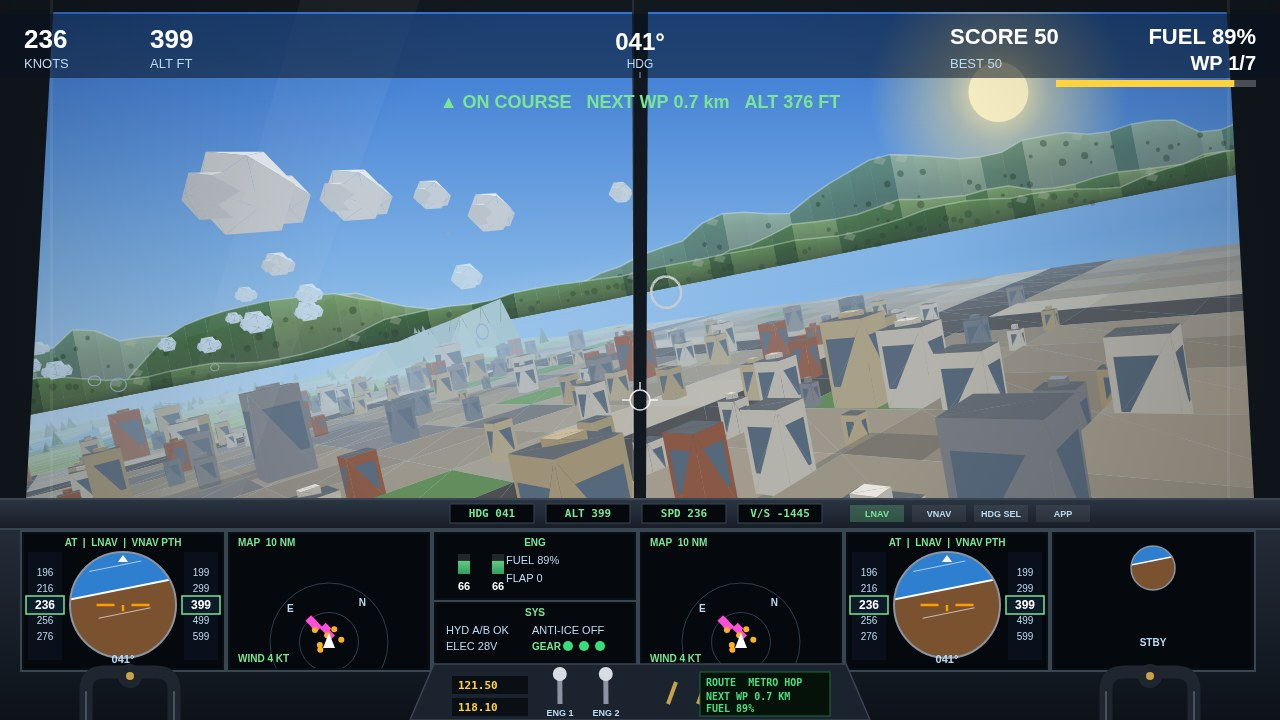
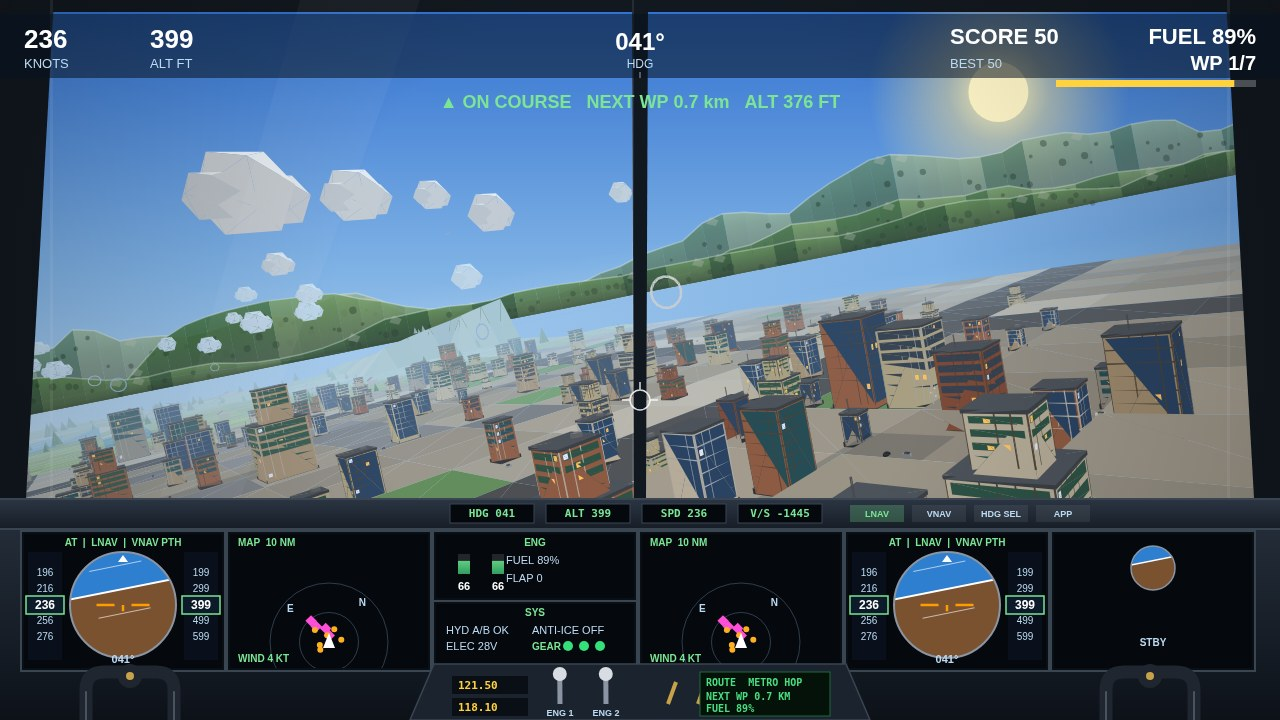
Jet Point v11: real building facades + HD map (user 21:06 WIB) — window-grid facades (glass curtain wall / concrete ribbon windows), stepped towers, plinth + parapet + AC, parked cars; mountain forest second octave, field sub-block tones; jet + cockpit untouched; all 5 legs LAND 7/7, dossier 160,637

Changed region(s): [[0.0312, 0.3972, 0.9375, 0.7028], [0.8125, 0.4278, 0.8438, 0.4583], [0.7812, 0.3972, 0.8125, 0.4278]]

diff --git a/game/src/gl3d.js b/game/src/gl3d.js
@@ -653,7 +653,10 @@ export function terrainFaceColor(world, wx, wz, h) {
       c = shadeArr(patch > 0.1 ? [104, 98, 88] : [62, 100, 62], light * (1 + mot * 0.08 + fine * 0.04));
     } else {
       const forest = patch > 0 ? [84, 132, 80] : [96, 146, 86];
-      c = shadeArr(forest, light * (1 + mot * 0.12 + fine * 0.05));
+      // Second, finer octave: the forest reads as patchy canopy, not one
+      // flat green — the "HD" texture the v11 brief asks for.
+      const fine2 = vnoise2(wx * 0.03 + 3, wz * 0.03 - 8);
+      c = shadeArr(forest, light * (1 + mot * 0.12 + fine * 0.05 + fine2 * 0.06));
       if (patch2 > 0.55) c = shadeArr(c, 0.88);
     }
     // The valley river follows the route.
@@ -674,7 +677,10 @@ export function terrainFaceColor(world, wx, wz, h) {
   const field = fh < 0.15 ? [188, 172, 116] : fh < 0.55 ? [140, 165, 96] : fh < 0.8 ? [124, 152, 88] : [112, 142, 82];
   const patch = vnoise2(wx * 0.006 + 31, wz * 0.006 + 11);
   const edge = clamp(0.5 + patch * 0.9, 0, 1);
-  return shadeArr(mix3(field, [128, 156, 92], edge * 0.6), 1 + mot * 0.1 + fine * 0.05);
+  // 100 m sub-block tone: fields read as separate parcels, not one flat
+  // 300 m slab.
+  const sub = 0.94 + hash2(Math.floor(wx / 100) + 5, Math.floor(wz / 100) + 9) * 0.12;
+  return shadeArr(mix3(field, [128, 156, 92], edge * 0.6), sub * (1 + mot * 0.1 + fine * 0.05));
 }
 
 // The terrain as a real 3D heightmap mesh: a grid over the whole leg,
@@ -862,6 +868,127 @@ export function buildRunway(world) {
 // Scenery props as real 3D low-poly meshes (GTA-low): buildings are boxes,
 // trees are cones/octahedra on trunks, palms have fronds, huts have prism
 // roofs. Positioned on the terrain, scaled by prop.s.
+// ---- facades ------------------------------------------------------------
+// A building that reads as a real building at 300-600 m, not a box with a
+// stripe: a window grid — glass towers get a curtain-wall field with
+// frame mullions + floor slabs, concrete/brick towers get per-floor glass
+// bands + mullions on a warm wall — plus a dark plinth, a parapet rim,
+// rooftop AC/antenna and parked cars on the street beside it. One helper
+// draws one face from its bottom-left corner o and horizontal unit u
+// (u×v is the outward normal, v = +y), so windings come out right.
+function facade(mesh, o, u, W, H, cols, rows, mode, glass, frame, seed) {
+  const q = (x0, y0, x1, y1, c, off = 0.15, em = 0) => {
+    const nx = -u[1] * off;
+    const nz = u[0] * off;
+    const a = [o[0] + u[0] * x0 + nx, o[1] + y0, o[2] + u[1] * x0 + nz];
+    const b = [o[0] + u[0] * x1 + nx, o[1] + y0, o[2] + u[1] * x1 + nz];
+    const c2 = [o[0] + u[0] * x1 + nx, o[1] + y1, o[2] + u[1] * x1 + nz];
+    const d = [o[0] + u[0] * x0 + nx, o[1] + y1, o[2] + u[1] * x0 + nz];
+    quad(mesh, a[0], a[1], a[2], b[0], b[1], b[2], c2[0], c2[1], c2[2], d[0], d[1], d[2], c, 1, em);
+  };
+  if (mode === 0) q(0.8, 1.0, W - 0.8, H - 0.8, glass); // curtain-wall glass field
+  const cw = W / cols;
+  const rh = H / rows;
+  for (let i = 0; i <= cols; i += 1) q(i * cw - 0.25, 0, i * cw + 0.25, H, frame); // mullions
+  if (mode === 0) {
+    for (let j = 0; j <= rows; j += 1) q(0, j * rh - 0.35, W, j * rh + 0.35, frame); // floor slabs
+  } else {
+    for (let j = 0; j < rows; j += 1) q(1.4, j * rh + 1.0, W - 1.4, (j + 1) * rh - 1.0, glass); // ribbon windows
+  }
+  // A few lit windows (warm), hash-placed in random cells, proud of the grid.
+  for (let k = 0; k < 3; k += 1) {
+    const hx = hash2(seed + k * 17, seed + k * 31);
+    const hy = hash2(seed + k * 43, seed + k * 7);
+    const ci = Math.floor(hx * cols);
+    const ri = Math.floor(hy * rows);
+    q(ci * cw + cw * 0.28, ri * rh + rh * 0.28, ci * cw + cw * 0.72, ri * rh + rh * 0.72,
+      hx > 0.82 ? [220, 232, 255] : [255, 196, 96], 0.3, 1);
+  }
+}
+
+// One tower: box + a window grid on all four faces + parapet rim +
+// hash-gated rooftop AC / antenna. gy = ground height at the tower.
+function tower(mesh, x, z, gy, w, h, mode, glass, frame, wall, roof, seed) {
+  const hw = w / 2;
+  boxAt(mesh, x, gy + h / 2, z, w, h, w, [roof, wall, wall, wall, wall, wall]);
+  const cols = Math.max(4, Math.min(6, Math.round(w / 5.5)));
+  const rows = Math.max(4, Math.min(7, Math.round(h / 6.5)));
+  const y0 = gy + 3; // the facade starts above the dark plinth
+  facade(mesh, [x + hw, y0, z + hw], [0, -1], w, h - 3, cols, rows, mode, glass, frame, seed);
+  facade(mesh, [x - hw, y0, z - hw], [0, 1], w, h - 3, cols, rows, mode, glass, frame, seed + 101);
+  facade(mesh, [x - hw, y0, z + hw], [1, 0], w, h - 3, cols, rows, mode, glass, frame, seed + 202);
+  facade(mesh, [x + hw, y0, z - hw], [-1, 0], w, h - 3, cols, rows, mode, glass, frame, seed + 303);
+  // Parapet rim (slightly wider than the tower) + rooftop AC / antenna.
+  boxAt(mesh, x, gy + h + 0.7, z, w + 1.2, 1.4, w + 1.2, [roof, roof, roof, roof, roof, roof]);
+  if (hash2(seed + 7, seed + 9) > 0.55) {
+    boxAt(mesh, x + hw * 0.4, gy + h + 2.4, z - hw * 0.3, 4, 2, 3, [120, 124, 128]);
+  }
+  if (hash2(seed + 13, seed + 17) > 0.75) {
+    boxAt(mesh, x - hw * 0.35, gy + h + 5, z + hw * 0.3, 0.5, 8, 0.5, [90, 94, 100]);
+  }
+}
+
+// A full building: plinth + tower(s) + parked cars on the street beside
+// it. mode 0 = glass curtain wall, 1 = warm concrete/brick with ribbon
+// windows, 2 = stepped tower (wide base + narrower top). H = terrain
+// height at (x, z); rwA/rwB = the runways (cars never park on a strip).
+function buildBuilding(mesh, prop, gy, H, rwA, rwB) {
+  const s = prop.s;
+  const seed = Math.floor(prop.x) * 7 + Math.floor(prop.z) * 13;
+  const h1 = hash2(seed, seed + 3);
+  const h2 = hash2(seed + 11, seed + 23);
+  const h3 = hash2(seed + 29, seed + 41);
+  const w = (prop.kind === 'building' ? 22 : 30) * s;
+  const h = (prop.kind === 'building' ? 38 : 58) * s;
+  const glassTints = [[52, 84, 124], [48, 96, 108], [66, 82, 102], [56, 102, 88]];
+  const frameTints = [[198, 206, 214], [226, 220, 208], [96, 84, 70]];
+  const wallTints = [[198, 172, 138], [176, 112, 84], [226, 214, 190], [170, 162, 150], [156, 92, 70], [210, 196, 158]];
+  const glass = glassTints[Math.floor(h1 * glassTints.length) % glassTints.length];
+  const frame = frameTints[Math.floor(h2 * frameTints.length) % frameTints.length];
+  const wall = wallTints[Math.floor(h3 * wallTints.length) % wallTints.length];
+  const roof = [74, 80, 88];
+  const arch = Math.floor(h1 * 3); // 0 glass, 1 concrete, 2 stepped
+  const mode = arch === 0 ? 0 : 1;
+  // Dark plinth: the bottom 3 m, slightly wider — grounds the tower.
+  boxAt(mesh, prop.x, gy + 1.5, prop.z, w + 1.6, 3, w + 1.6, [58, 62, 68]);
+  if (arch === 2) {
+    const hb = h * 0.62;
+    const ht = h - hb;
+    tower(mesh, prop.x, prop.z, gy, w, hb, mode, glass, frame, wall, roof, seed);
+    tower(mesh, prop.x, prop.z, gy + hb, w * 0.6, ht, mode, glass, frame, wall, roof, seed + 505);
+  } else {
+    tower(mesh, prop.x, prop.z, gy, w, h, mode, glass, frame, wall, roof, seed);
+  }
+  // Parked cars on the road strip of the building's block (parallel).
+  const carCols = [[230, 230, 228], [40, 42, 46], [168, 52, 44], [52, 84, 140], [170, 176, 182], [232, 196, 60]];
+  if (hash2(seed + 51, seed + 53) > 0.5) {
+    const hc = hash2(seed + 61, seed + 67);
+    const bx = Math.floor(prop.x / 90);
+    const roadX = bx * 90 + 4.5;
+    let cx;
+    let cz;
+    let alongZ = true;
+    if (Math.abs(prop.x - roadX) > 20) { cx = roadX; cz = prop.z + (hc - 0.5) * 36; }
+    else { const bz = Math.floor(prop.z / 90); cx = prop.x + (hc - 0.5) * 36; cz = bz * 90 + 4.5; alongZ = false; }
+    let onRw = false;
+    for (const rw of [rwA, rwB]) {
+      const f = runwayFrame(rw, cx, cz);
+      if (Math.abs(f.along) < 480 && Math.abs(f.across) < 40) onRw = true;
+    }
+    if (!onRw) {
+      const cy = H(cx, cz);
+      const col = carCols[Math.floor(hash2(seed + 71, seed + 73) * carCols.length) % carCols.length];
+      if (alongZ) {
+        boxAt(mesh, cx, cy + 0.7, cz, 1.9, 1.4, 4.6, col);
+        boxAt(mesh, cx, cy + 1.65, cz - 0.3, 1.7, 0.7, 2.4, [40, 52, 66]);
+      } else {
+        boxAt(mesh, cx, cy + 0.7, cz, 4.6, 1.4, 1.9, col);
+        boxAt(mesh, cx - 0.3, cy + 1.65, cz, 2.4, 0.7, 1.7, [40, 52, 66]);
+      }
+    }
+  }
+}
+
 export function buildProps(world) {
   const mesh = [];
   const H = world.terrainHeight.bind(world);
@@ -879,49 +1006,7 @@ export function buildProps(world) {
     const gy = H(prop.x, prop.z);
     const s = prop.s;
     if (prop.kind === 'building' || prop.kind === 'building2') {
-      const w = (prop.kind === 'building' ? 22 : 30) * s;
-      const h = (prop.kind === 'building' ? 38 : 58) * s;
-      // Varied building colours (not three greys): grey, beige, brick,
-      // sand, blue-grey, white — a city that reads as a city.
-      const tones = [
-        [148, 154, 164], [196, 182, 150], [172, 110, 88],
-        [210, 198, 168], [128, 146, 164], [224, 222, 214],
-      ];
-      const tone = tones[Math.abs(Math.floor(prop.x / 7) + Math.floor(prop.z / 11)) % tones.length];
-      const roof = [96, 104, 114];
-      boxAt(mesh, prop.x, gy + h / 2, prop.z, w, h, w, [roof, tone, tone, tone, tone, tone]);
-      // Windows: a light blue-grey glass band across the middle of each
-      // side face (inset, offset out so it never z-fights the wall) + a
-      // few lit windows. The v10 first render used a near-black full-face
-      // curtain wall — the buildings read as black monoliths.
-      const glass = [108, 130, 154];
-      const gy0 = gy + h * 0.25;
-      const gy1 = gy + h * 0.8;
-      const inset = 3;
-      const o = 0.15;
-      const hw = w / 2;
-      // +x face
-      quad(mesh, prop.x + hw + o, gy0, prop.z - hw + inset, prop.x + hw + o, gy1, prop.z - hw + inset, prop.x + hw + o, gy1, prop.z + hw - inset, prop.x + hw + o, gy0, prop.z + hw - inset, glass);
-      // -x face
-      quad(mesh, prop.x - hw - o, gy0, prop.z + hw - inset, prop.x - hw - o, gy1, prop.z + hw - inset, prop.x - hw - o, gy1, prop.z - hw + inset, prop.x - hw - o, gy0, prop.z - hw + inset, glass);
-      // +z face
-      quad(mesh, prop.x - hw + inset, gy0, prop.z + hw + o, prop.x + hw - inset, gy0, prop.z + hw + o, prop.x + hw - inset, gy1, prop.z + hw + o, prop.x - hw + inset, gy1, prop.z + hw + o, glass);
-      // -z face
-      quad(mesh, prop.x + hw - inset, gy0, prop.z - hw - o, prop.x - hw + inset, gy0, prop.z - hw - o, prop.x - hw + inset, gy1, prop.z - hw - o, prop.x + hw - inset, gy1, prop.z - hw - o, glass);
-      // Lit windows: warm, emissive, a few per building, hash-placed.
-      const lit = [255, 200, 100];
-      for (let k = 0; k < 3; k += 1) {
-        const hx = hash2(Math.floor(prop.x) + k * 13, Math.floor(prop.z) + k * 7);
-        const hz = hash2(Math.floor(prop.x) + k * 29, Math.floor(prop.z) + k * 3);
-        const wy = gy + 6 + hx * (h - 12);
-        const wz = prop.z - hw + inset + hz * (w - 2 * inset);
-        const wx = prop.x + hw + o + 0.1;
-        quad(mesh, wx, wy - 1.2, wz - 1.2, wx, wy + 1.2, wz - 1.2, wx, wy + 1.2, wz + 1.2, wx, wy - 1.2, wz + 1.2, lit, 1, 1);
-      }
-      // Rooftop box (AC unit / penthouse) for silhouette variety.
-      if (hash2(Math.floor(prop.x / 3), Math.floor(prop.z / 5)) > 0.5) {
-        boxAt(mesh, prop.x, gy + h + 2, prop.z, w * 0.4, 4, w * 0.4, [tone, tone, tone, tone, tone, tone]);
-      }
+      buildBuilding(mesh, prop, gy, H, world.runwayA, world.runwayB);
     } else if (prop.kind === 'palm') {
       const h = 16 * s;
       cylinderY(mesh, prop.x, gy + h / 2, prop.z, 0.9 * s, h, 6, [107, 74, 43]);

diff --git a/references.md b/references.md
@@ -314,3 +314,9 @@ flat white tube, wing a flat white triangle, far wing a separate blade.
 - Fields: muted greens in 300 m blocks (the 150 m tan/green/grey blocks
   read as a checkerboard).
 - Jet and cockpit UNTOUCHED (both approved by the user).
+
+# v11 — user 21:06 WIB 26 Nov: "mapnya coba kamu buat lebih hd, lebih realistik, lebih tidak terasa asal-asalan. Gedung-gedungnya coba buat lebih bagus lagi, seperti gedung yang bagus"
+- Buildings are the fix: v10's were plain boxes with ONE glass band. v11 gives every building a real window grid — glass towers get a curtain-wall field with frame mullions + floor slabs; concrete/brick towers get per-floor glass ribbon bands + mullions on a warm wall (sandstone / terracotta / cream / brick); stepped towers (wide base + narrower top); a dark plinth; a parapet rim; rooftop AC/antenna; parked cars on the street beside each building. Facade = one shared helper per face (bottom-left corner + horizontal unit, u×v = outward normal).
+- Map HD (no new triangles): mountain forest gets a second, finer noise octave (patchy canopy, not one flat green); fields get 100 m sub-block tones inside the 300 m parcels.
+- Jet + cockpit UNTOUCHED (both approved). TPP/storm/landing shots unchanged (landing byte-identical to v10; TPP/storm differ only in the terrain-colour tweaks).
+- Cost: props 14.4k → 85.3k tris (buildings ~200 tris each); frame ~90k tris, stub render ~210 ms (was ~93 ms). Dossier text 160,637 / 163,840 cap — 3,203 chars of headroom left; any v12 must be code-neutral or delete first.
